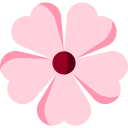
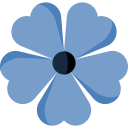
My portfolio

diff --git a/assets/css/style.css b/assets/css/style.css
@@ -14,7 +14,7 @@ body {
 }
 
 a {
-  color: #34b7a7;
+  color: #779ecb;
 }
 
 a:hover {
@@ -55,7 +55,7 @@ h1, h2, h3, h4, h5, h6 {
   position: fixed;
   top: calc(50% - 30px);
   left: calc(50% - 30px);
-  border: 6px solid #34b7a7;
+  border: 6px solid #779ecb;
   border-top-color: #dcf5f2;
   border-radius: 50%;
   width: 60px;
@@ -101,7 +101,7 @@ h1, h2, h3, h4, h5, h6 {
   width: 40px;
   height: 40px;
   border-radius: 50px;
-  background: #34b7a7;
+  background: #779ecb;
   color: #fff;
   transition: all 0.4s;
 }
@@ -182,7 +182,7 @@ h1, h2, h3, h4, h5, h6 {
   height: 2px;
   bottom: -5px;
   left: 0;
-  background-color: #34b7a7;
+  background-color: #779ecb;
   visibility: hidden;
   width: 0px;
   transition: all 0.3s ease-in-out 0s;
@@ -231,7 +231,7 @@ h1, h2, h3, h4, h5, h6 {
 }
 
 .nav-menu .drop-down ul a:hover, .nav-menu .drop-down ul .active > a, .nav-menu .drop-down ul li:hover > a {
-  color: #34b7a7;
+  color: #779ecb;
 }
 
 .nav-menu .drop-down > a:after {
@@ -291,7 +291,7 @@ h1, h2, h3, h4, h5, h6 {
 }
 
 .mobile-nav-toggle i {
-  color: #34b7a7;
+  color: #779ecb;
 }
 
 .mobile-nav {
@@ -326,7 +326,7 @@ h1, h2, h3, h4, h5, h6 {
 }
 
 .mobile-nav a:hover, .mobile-nav .active > a, .mobile-nav li:hover > a {
-  color: #34b7a7;
+  color: #779ecb;
   text-decoration: none;
 }
 
@@ -398,7 +398,7 @@ h1, h2, h3, h4, h5, h6 {
 }
 
 .header-social-links a:hover {
-  color: #34b7a7;
+  color: #779ecb;
 }
 
 @media (max-width: 992px) {
@@ -454,7 +454,7 @@ h1, h2, h3, h4, h5, h6 {
   transition: 0.5s;
   margin-top: 30px;
   color: #fff;
-  background: #34b7a7;
+  background: #779ecb;
 }
 
 #hero .btn-about:hover {
@@ -518,7 +518,7 @@ section {
   display: block;
   width: 50px;
   height: 3px;
-  background: #34b7a7;
+  background: #779ecb;
   bottom: 0;
   left: calc(50% - 25px);
 }
@@ -562,8 +562,8 @@ section {
 }
 
 .cta .cta-btn:hover {
-  background: #34b7a7;
-  border: 2px solid #34b7a7;
+  background: #779ecb;
+  border: 2px solid #779ecb;
 }
 
 @media (max-width: 1024px) {
@@ -601,7 +601,7 @@ section {
 .about .content ul i {
   font-size: 20px;
   padding-right: 2px;
-  color: #34b7a7;
+  color: #779ecb;
 }
 
 .about .content p:last-child {
@@ -640,7 +640,7 @@ section {
   width: 1px;
   height: 10px;
   transition: .9s;
-  background-color: #34b7a7;
+  background-color: #779ecb;
 }
 
 /*--------------------------------------------------------------
@@ -649,7 +649,7 @@ section {
 .facts .counters span {
   font-size: 48px;
   display: block;
-  color: #34b7a7;
+  color: #779ecb;
 }
 
 .facts .counters p {
@@ -728,7 +728,7 @@ section {
 }
 
 .testimonials .owl-dot.active {
-  background-color: #34b7a7 !important;
+  background-color: #779ecb !important;
 }
 
 @media (min-width: 992px) {
@@ -751,7 +751,7 @@ section {
 .resume .resume-item {
   padding: 0 0 20px 20px;
   margin-top: -2px;
-  border-left: 2px solid #34b7a7;
+  border-left: 2px solid #779ecb;
   position: relative;
 }
 
@@ -760,18 +760,18 @@ section {
   font-size: 18px;
   font-weight: 600;
   font-family: "Poppins", sans-serif;
-  color: #1d685f;
+  color: #4376b0;
   margin-bottom: 10px;
 }
 
 .resume .resume-item h5 {
   font-size: 16px;
-  background: #effbf9;
+  background: #e9eff6;
   padding: 5px 15px;
   display: inline-block;
   font-weight: 600;
   margin-bottom: 10px;
-  color: #34b7a7;
+  color: #779ecb;
 }
 
 .resume .resume-item ul {
@@ -795,7 +795,7 @@ section {
   left: -9px;
   top: 0;
   background: #fff;
-  border: 2px solid #34b7a7;
+  border: 2px solid #779ecb;
 }
 
 /*--------------------------------------------------------------
@@ -956,7 +956,7 @@ section {
 
 .portfolio #portfolio-flters li:hover, .portfolio #portfolio-flters li.filter-active {
   color: #fff;
-  background: #34b7a7;
+  background: #779ecb;
 }
 
 .portfolio #portfolio-flters li:last-child {
@@ -1076,7 +1076,7 @@ section {
 }
 
 .portfolio-details .portfolio-details-carousel .owl-dot.active {
-  background-color: #34b7a7 !important;
+  background-color: #779ecb !important;
 }
 
 .portfolio-details .portfolio-info {
@@ -1120,7 +1120,7 @@ section {
 
 .contact .info i {
   font-size: 20px;
-  color: #34b7a7;
+  color: #779ecb;
   float: left;
   width: 44px;
   height: 44px;
@@ -1152,7 +1152,7 @@ section {
 }
 
 .contact .info .email:hover i, .contact .info .address:hover i, .contact .info .phone:hover i {
-  background: #34b7a7;
+  background: #779ecb;
   color: #fff;
 }
 
@@ -1218,7 +1218,7 @@ section {
 }
 
 .contact .php-email-form input:focus, .contact .php-email-form textarea:focus {
-  border-color: #34b7a7;
+  border-color: #779ecb;
 }
 
 .contact .php-email-form input {
@@ -1230,7 +1230,7 @@ section {
 }
 
 .contact .php-email-form button[type="submit"] {
-  background: #34b7a7;
+  background: #779ecb;
   border: 0;
   padding: 10px 30px 12px 30px;
   color: #fff;
@@ -1277,5 +1277,5 @@ section {
 }
 
 #footer .credits a {
-  color: #34b7a7;
+  color: #779ecb;
 }

diff --git a/index.html b/index.html
@@ -41,10 +41,9 @@
   <header id="header" class="fixed-top">
     <div class="container-fluid d-flex justify-content-between align-items-center">
 
-      <h1 class="logo"><a href="index.html"></a></h1>
-      <!-- aku buang-->
+      <!--<h1 class="logo"><a href="index.html"></a></h1>-->
       <!-- Uncomment below if you prefer to use an image logo -->
-      <!-- <a href="index.html" class="logo"><img src="assets/img/logo.png" alt="" class="img-fluid"></a>-->
+      <a href="index.html" class="logo"><img src="assets/img/flower.png" alt="" class="img-fluid"></a>
 
       <nav class="nav-menu d-none d-lg-block">
         <ul>
@@ -56,12 +55,10 @@
         </ul>
       </nav><!-- .nav-menu -->
 
-     <div class="header-social-links"></div>
-        <!-- <a href="#" class="twitter"><i class="icofont-twitter"></i></a>
-        <a href="#" class="facebook"><i class="icofont-facebook"></i></a>
-        <a href="#" class="instagram"><i class="icofont-instagram"></i></a>
-        <a href="#" class="linkedin"><i class="icofont-linkedin"></i></i></a>
-      </div>-->
+     <div class="header-social-links">
+     <a href="https://www.linkedin.com/in/nurnabila34/" class="linkedin"><i class="icofont-linkedin"></i></i></a>
+     <a href="https://github.com/nurnabilaa34" class="github"><i class="icofont-github"></i></i></a>
+      </div>
 
     </div>
 

diff --git a/skills.html b/skills.html
@@ -41,9 +41,9 @@
   <header id="header" class="fixed-top">
     <div class="container-fluid d-flex justify-content-between align-items-center">
 
-      <h1 class="logo"><a href="index.html"></a></h1>
-      <!-- Uncomment below if you prefer to use an image logo -->
-      <!-- <a href="index.html" class="logo"><img src="assets/img/logo.png" alt="" class="img-fluid"></a>-->
+      <!--<h1 class="logo"><a href="index.html"></a></h1>
+       Uncomment below if you prefer to use an image logo -->
+      <a href="index.html" class="logo"><img src="assets/img/flower.png" alt="" class="img-fluid"></a>
 
       <nav class="nav-menu d-none d-lg-block">
         <ul>
@@ -56,8 +56,9 @@
       </nav><!-- .nav-menu -->
 
       <div class="header-social-links">
-        <a href="https://www.linkedin.com/in/nurnabila34/" class="linkedin"><i class="icofont-linkedin"></i></i></a>
-      </div>
+      <a href="https://www.linkedin.com/in/nurnabila34/" class="linkedin"><i class="icofont-linkedin"></i></i></a>
+      <a href="https://github.com/nurnabilaa34" class="github"><i class="icofont-github"></i></i></a>
+       </div>
 
     </div>
 

diff --git a/about.html b/about.html
@@ -41,9 +41,9 @@
   <header id="header" class="fixed-top">
     <div class="container-fluid d-flex justify-content-between align-items-center">
 
-      <h1 class="logo"><a href="index.html"></a></h1>
-      <!-- Uncomment below if you prefer to use an image logo -->
-      <!-- <a href="index.html" class="logo"><img src="assets/img/logo.png" alt="" class="img-fluid"></a>-->
+      <!--<h1 class="logo"><a href="index.html"></a></h1>
+      Uncomment below if you prefer to use an image logo -->
+      <a href="index.html" class="logo"><img src="assets/img/flower.png" alt="" class="img-fluid"></a>
 
       <nav class="nav-menu d-none d-lg-block">
         <ul>
@@ -56,8 +56,9 @@
       </nav><!-- .nav-menu -->
 
       <div class="header-social-links">
-        <a href="https://www.linkedin.com/in/nurnabila34/" class="linkedin"><i class="icofont-linkedin"></i></i></a>
-      </div>
+      <a href="https://www.linkedin.com/in/nurnabila34/" class="linkedin"><i class="icofont-linkedin"></i></i></a>
+      <a href="https://github.com/nurnabilaa34" class="github"><i class="icofont-github"></i></i></a>
+       </div>
 
     </div>
 

diff --git a/contact.html b/contact.html
@@ -41,9 +41,9 @@
   <header id="header" class="fixed-top">
     <div class="container-fluid d-flex justify-content-between align-items-center">
 
-      <h1 class="logo"><a href="index.html"></a></h1>
-      <!-- Uncomment below if you prefer to use an image logo -->
-      <!-- <a href="index.html" class="logo"><img src="assets/img/logo.png" alt="" class="img-fluid"></a>-->
+      <!--<h1 class="logo"><a href="index.html"></a></h1>
+      Uncomment below if you prefer to use an image logo -->
+      <a href="index.html" class="logo"><img src="assets/img/flower.png" alt="" class="img-fluid"></a>
 
       <nav class="nav-menu d-none d-lg-block">
         <ul>
@@ -56,8 +56,9 @@
       </nav><!-- .nav-menu -->
 
       <div class="header-social-links">
-        <a href="https://www.linkedin.com/in/nurnabila34/" class="linkedin"><i class="icofont-linkedin"></i></i></a>
-      </div>
+      <a href="https://www.linkedin.com/in/nurnabila34/" class="linkedin"><i class="icofont-linkedin"></i></i></a>
+      <a href="https://github.com/nurnabilaa34" class="github"><i class="icofont-github"></i></i></a>
+       </div>
 
     </div>
 

diff --git a/resume.html b/resume.html
@@ -41,9 +41,9 @@
   <header id="header" class="fixed-top">
     <div class="container-fluid d-flex justify-content-between align-items-center">
 
-      <h1 class="logo"><a href="index.html"></a></h1>
-      <!-- Uncomment below if you prefer to use an image logo -->
-      <!-- <a href="index.html" class="logo"><img src="assets/img/logo.png" alt="" class="img-fluid"></a>-->
+      <!--<h1 class="logo"><a href="index.html"></a></h1>
+      Uncomment below if you prefer to use an image logo -->
+      <a href="index.html" class="logo"><img src="assets/img/flower.png" alt="" class="img-fluid"></a>
 
       <nav class="nav-menu d-none d-lg-block">
         <ul>
@@ -56,8 +56,9 @@
       </nav><!-- .nav-menu -->
 
       <div class="header-social-links">
-        <a href="https://www.linkedin.com/in/nurnabila34/" class="linkedin"><i class="icofont-linkedin"></i></i></a>
-      </div
+      <a href="https://www.linkedin.com/in/nurnabila34/" class="linkedin"><i class="icofont-linkedin"></i></i></a>
+      <a href="https://github.com/nurnabilaa34" class="github"><i class="icofont-github"></i></i></a>
+       </div>
 
     </div>
 
